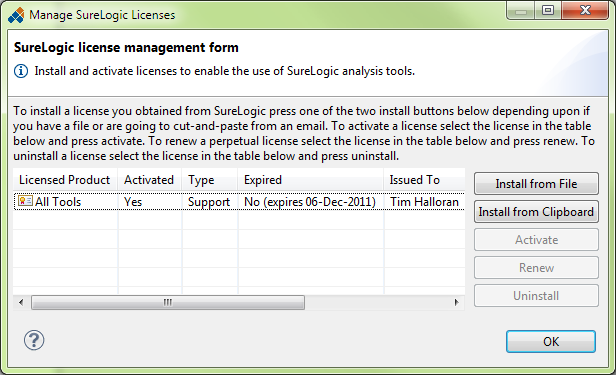
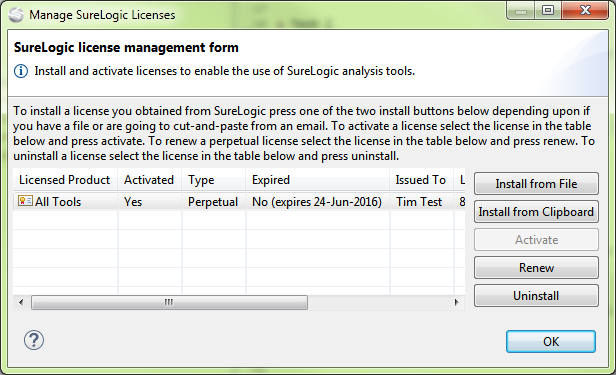
Updates to install documentation -- checked XHTML

diff --git a/surelogic-update-site/install.html b/surelogic-update-site/install.html
@@ -16,6 +16,7 @@
         text-decoration: none;
         width: 400px; }
       p.cen { text-align: center }
+      p.rgt { text-align: right }
       p.cencode {
         text-align: center;
         font-size: 110%;
@@ -36,12 +37,12 @@
   
     <p class="cen"><img src="./images/install-logo.png" alt="SureLogic"/></p>
     
-    <p align="right"><a href="#cl">Download Ant/Maven tools for the current release</a></p>
+    <p class="rgt"><a href="#cl">Download Ant/Maven tools for the current release</a></p>
     
     <h2 class="title">Downloading and Installing the Eclipse-based SureLogic Tools</h2>
     
     <p>The current SureLogic tool release is version [[VER]]. You must be running
-    Eclipse on a Java 7 VM (see below).</p>
+    Eclipse on a Java 7 (or higher) VM (see below).</p>
     
     <p> It should take no more than 5 minutes for you to get up and
     running if you already have a working Eclipse installed on your
@@ -55,7 +56,7 @@
     free to also file any problems or questions on Bugzilla at our website.</p>
 
     <p><a class="btn" href="./[[ZIP]]">Click to download an archived update site
-    for SureLogic tools version [[VER]] you can load into Eclipse</a></a></p>
+    for SureLogic tools version [[VER]] you can load into Eclipse</a></p>
     
     <p class="cen">or</p>
     
@@ -112,7 +113,7 @@
     supported please contact SureLogic. The Eclipse-based IBM Rational
     Application Developer for WebSphere Software (RAD) 8.0 is supported.</p>
 
-    <p><em>The current release of SureLogic Tools requires a Java 7 VM
+    <p><em>The current release of SureLogic Tools requires a Java 7 (or higher) VM
     be used to run the Eclipse that the tools are installed in.</em>
     Note: Eclipse will unfortunately allow the tools to be installed even if it
     is running in a Java 1.6 VM, but on restart the SureLogic Tools will not
@@ -149,52 +150,50 @@
 512m</pre>
 
     <p>Most modern Eclipse releases set this to 265 MB which might be okay for most uses.
-    The best solution is to use a Java 8 VM (in which Oracle removed this as a setting).</p>
+    The best solution is to use a Java 8 VM (in which Oracle removed Perm Gen altogether).</p>
     
     <ol>
       <li>
-	<p>
-	  We find that installing the tools, especially for the first time, is
+	  <p>We find that installing the tools, especially for the first time, is
 	  better done from an archived update site, which you can find <a
 	  href="./[[ZIP]]">here</a> (the same file downloaded by the above button). This archive
 	  contains the Sierra, JSure, and Flashlight features.  If you are an
 	  advanced Eclipse user, you can choose to use our update site, located at
-	  <tt>[[UPS]]</tt>, and skip to step 3.
-	</p>
+	  <tt>[[UPS]]</tt>, and skip to step 3.</p>
       </li>
 
       <li>
-	<p>Select 'Help | Install New Software&hellip;' to open the 'Install'
-	    dialog.  Click the 'Add&hellip;' button in the upper-right of the
-	    dialog.  In the dialog that opens select the
-	    'Archive&hellip;' button and point the file selection dialog that
-	    appears to the to the SureLogic archived update site file downloaded
-	    in step 1, then press 'Open' followed by 'OK'.  The 'Install' dialog
-	    should appear as shown in the figure below.</p>
+	  <p>Select 'Help | Install New Software&hellip;' to open the 'Install'
+	  dialog.  Click the 'Add&hellip;' button in the upper-right of the
+	  dialog.  In the dialog that opens select the
+	  'Archive&hellip;' button and point the file selection dialog that
+	  appears to the to the SureLogic archived update site file downloaded
+	  in step 1, then press 'Open' followed by 'OK'.  The 'Install' dialog
+	  should appear as shown in the figure below.</p>
 
-	    <img src="./images/install-tools-in-eclipse.png" alt="Selecting features to install in Eclipse" />
+	  <img src="./images/install-tools-in-eclipse.png" alt="Selecting features to install in Eclipse" />
 
-	<p>Choose the features you want to install (or simply press 'Select All'), and press
-	    'Next &gt;' and step through the remaining wizard dialog steps. The
-	    features you are installing are not digitally signed, however, you
-	    should allow them to be installed if you are warned by Eclipse that
-	    it can't verify them. Finally, you should restart Eclipse when the
-	    installation is completed.</p>
+	  <p>Choose the features you want to install (or simply press 'Select All'), and press
+	  'Next &gt;' and step through the remaining wizard dialog steps. The
+	  features you are installing are not digitally signed, however, you
+	  should allow them to be installed if you are warned by Eclipse that
+	  it can't verify them. Finally, you should restart Eclipse when the
+	  installation is completed.</p>
 	    
-	 <p><i>Do not check</i> 'Flashlight Client Android (Optional)' <i>if you do not have the
-	    Android Development Tools (ADT) installed in your Eclipse.</i>. Please uncheck this optional
-	    feature as shown in the figure below.</p>
+	  <p><i>Do not check</i> 'Flashlight Client Android (Optional)' <i>if you do not have the
+	  Android Development Tools (ADT) installed in your Eclipse.</i>. Please uncheck this optional
+	  feature as shown in the figure below.</p>
 	    
-	    <img src="./images/install-tools-no-android.png" alt="Don't select the Flashlight Client Android feature if you don't have the Android SDK" />
+	  <img src="./images/install-tools-no-android.png" alt="Don't select the Flashlight Client Android feature if you don't have the Android SDK" />
       </li>
 
       <li><p>When Eclipse restarts you should see an item on the
       Eclipse main menu for each tool that you installed. The first
       thing you need to do is to install the license provided to you
       by SureLogic. To do this select the 'Manage SureLogic Licenses'
-      menu choice from the Eclipse main menu from any of the tools
-      (they all open a common dialog) as shown in the figure
-      below.</p>
+      menu choice from bottom choice of the Eclipse main menu of any
+      of the SureLogic tools (they all open the same dialog). The
+      menu choice in the JSure Eclipse menu is shown in the figure below.</p>
 
       <img src="./images/install-license-menu.png" alt="Main menu choice to install your license" />
 
@@ -203,53 +202,67 @@
 
       <img src="./images/install-license-dialog.png" alt="SureLogic license management dialog showing a license to use Flashlight has been installed" />
 
-      <p>Once your license is loaded it may need to be activated. If so, highlight your license in the list of licenses and
+      <p>Once your license is loaded it may need to be activated. If so,
+      highlight your license in the list of licenses and
       press 'Activate' to activate it. This step requires Internet access because the tool
-      contacts SureLogic to verify your license is authentic.</p> 
+      contacts SureLogic to verify your license is authentic. Your activated
+      license may need to be renewed every now and then, e.g., every six months.
+      To do this highlight the license and press 'Renew' to renew it. As with activation
+      this step requires Internet access because the tool contacts SureLogic to verify
+      your license is authentic.</p> 
       
       <p>See the 'Getting started' chapter of any of the tool User
       Guides for information on how you install your license and get
       up and running with the tool. The tool User Guides can by opened
       by selecting 'Help | Help Contents' from the Eclipse main
-      menu</p>
+      menu. Alternatively you can choose the 'Save Documentation As...' menu
+      item from any of the SureLogic tools to save an HTML version of
+      the documentation to your disk and use your favorite browser
+      to read the tool documentation.</p>
       </li>
 
       <li>
-	<p>To run the tutorials for Sierra, Flashlight, or JSure
-	select the 'Run <em>Tool</em> Tutorials' menu choice from the
-	Eclipse main menu for that tool. For example, For the
-	JSure tool you would select 'JSure | Run JSure
-	Tutorials' from the Eclipse main menu as shown in the figure
-	below.</p>
+	  <p>To run the tutorials for Sierra, Flashlight, or JSure
+	  select the 'Install Tutorial Projects' menu choice from the
+	  Eclipse main menu for that tool. For example, For the
+	  JSure tool you would select 'JSure | Install Tutorial Projects'
+	  from the Eclipse main menu as shown in the figure below.</p>
 
-	<img src="./images/install-tutorials-menu.png" alt="Main menu choice to install and run the JSure tutorials" />
+	  <img src="./images/install-tutorials-menu.png" alt="Main menu choice to install the JSure tutorials" />
 
-	<p>This action will import the tutorial projects into your
-	workspace and open the Eclipse help up to the beginning of the
-	first tutorial. We recommend that you take the time to step
-	through each tutorial.</p>
+	  <p>This action will import the tutorial projects into your
+	  workspace and open the Eclipse help up to the beginning of the
+	  first tutorial. We recommend that you take the time to step
+	  through each tutorial.</p>
 
-	<p>Also notice the 'Send Tip for Improvement' and 'Send
-	Problem Report' menu items in the figure above. These menu
-	items are your <em>direct link</em> to interact with the
-	SureLogic engineers about your ideas to improve our tools and
-	to report any problems you encounter.</p>
+	  <p>Also notice the 'Send Tip for Improvement' and 'Send
+	  Problem Report' menu items in the figure above. These menu
+	  items are your <em>direct link</em> to interact with the
+	  SureLogic engineers about your ideas to improve our tools and
+	  to report any problems you encounter. JSure (as shown above)
+	  allows you to send annotations you have changed on libraries
+	  to SureLogic for consideration in future releases via
+	  the 'Send Library Annotation Changes' menu item.</p>
       </li>
+ 
       <li>
-	<p>To learn more about how to use the tools select 'Help |
-	Help Contents' and open the Sierra, Flashlight, or JSure User
-	Guides. If you have installed JSure, you should also read the
-	JSure Annotation Guide. These guides contain tutorial and
-	reference information about how to use the tools
-	effectively.</p>
+      <p>To learn more about how to use the tools select 'Help |
+      Help Contents' and open the Sierra, Flashlight, or JSure User
+      Guides. If you have installed JSure, you should also read the
+      JSure Annotation Guide. These guides contain tutorial and
+      reference information about how to use the tools
+      effectively. You may also use the 'Save Documentation As...'
+      menu item to save a copy of the documentation to your disk
+      in HTML format which can be loaded into any browser.</p>
       </li>
+
       <li>
-	<p>You can stay current with the latest versions of all of the SureLogic
-	tools by checking for updates from Eclipse. If you have not configured
-	Eclipse to periodically check for updates, you can check for tool
-	updates by selecting 'Help | Check For Updates'.  This will check
-	the SureLogic update site at <tt>[[UPS]]</tt> for any updates, regardless
-	of whether you installed the tools from the	archive site or from the remote site.</p>
+      <p>You can stay current with the latest versions of all of the SureLogic
+      tools by checking for updates from Eclipse. If you have not configured
+      Eclipse to periodically check for updates, you can check for tool
+      updates by selecting 'Help | Check For Updates'.  This will check
+      the SureLogic update site at <tt>[[UPS]]</tt> for any updates, regardless
+      of whether you installed the tools from the	archive site or from the remote site.</p>
       </li>
     </ol>
     
